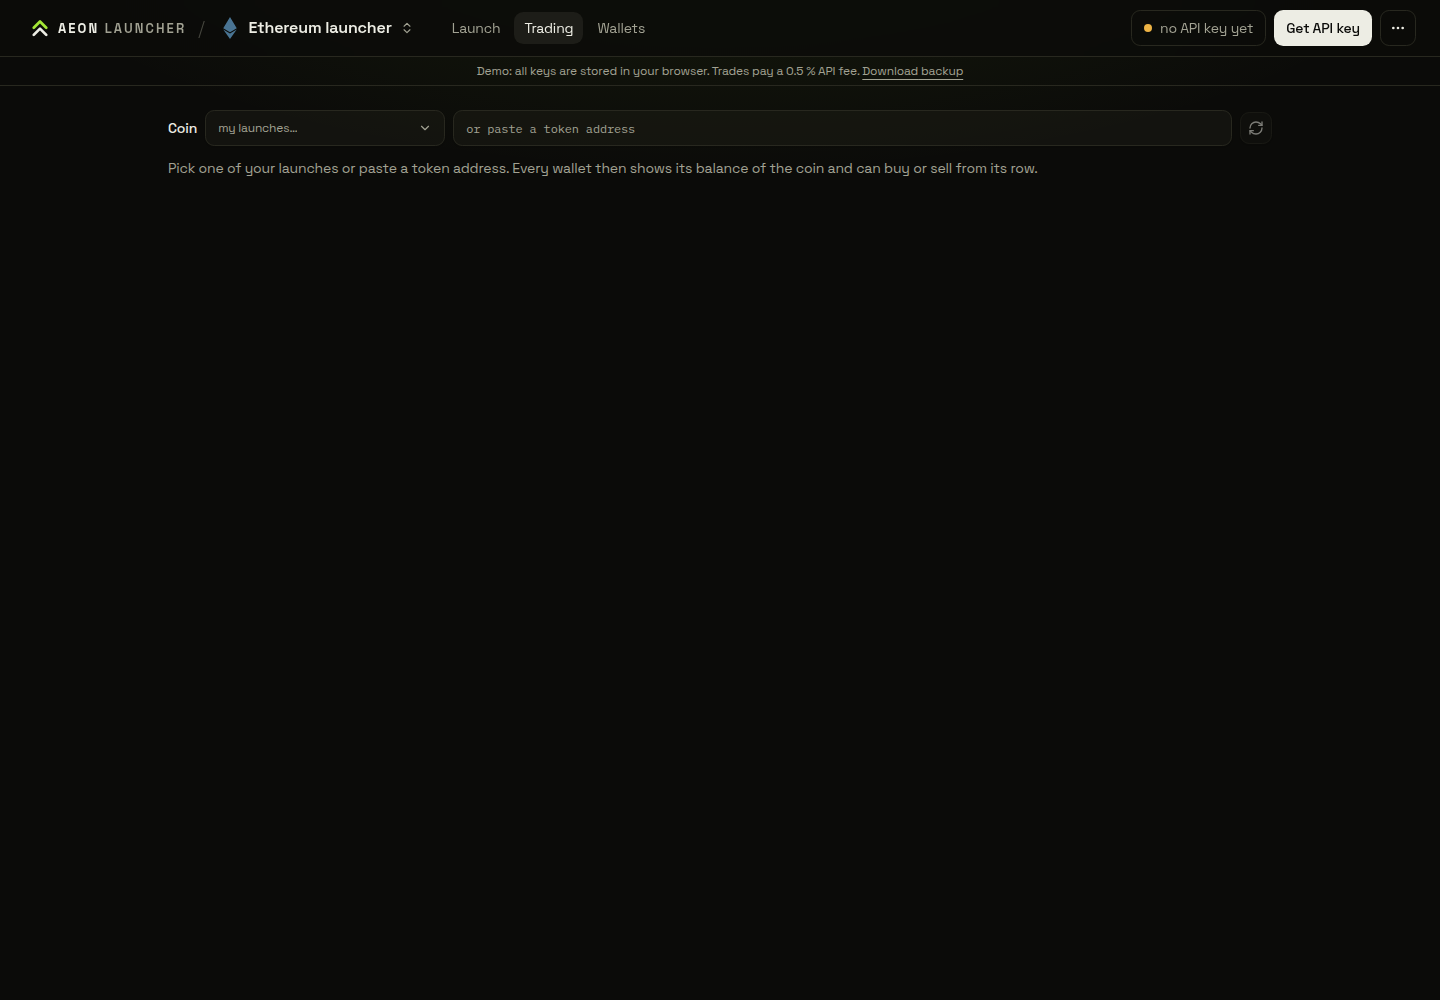
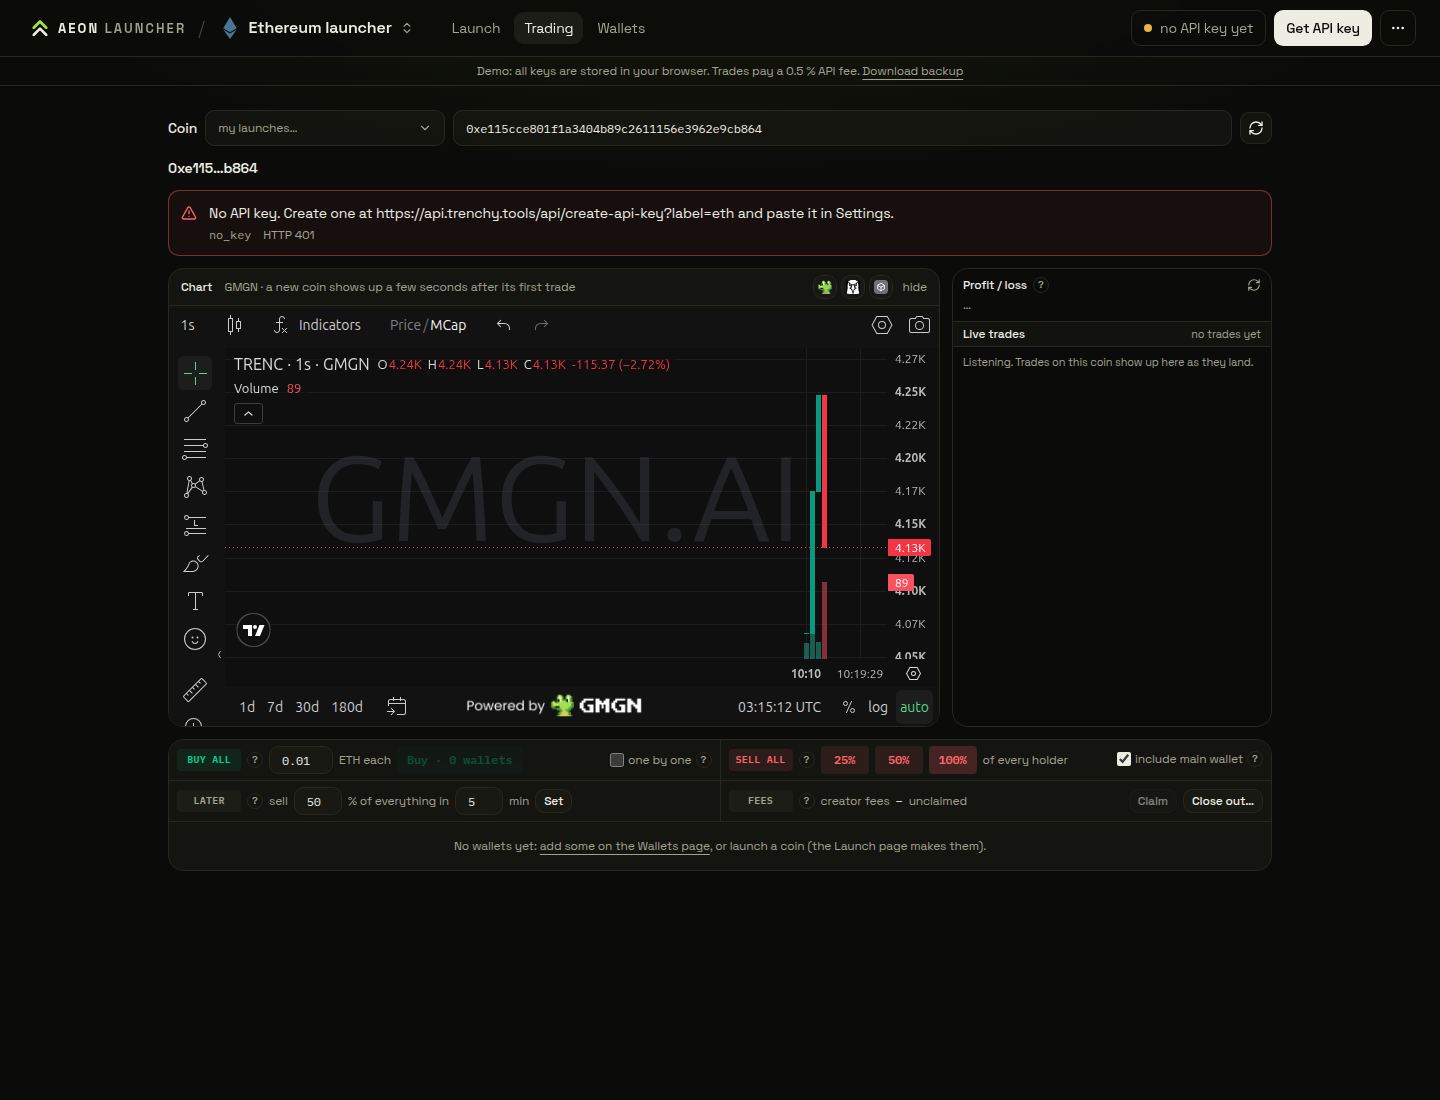
screenshots: wallets + trading

diff --git a/README.md b/README.md
@@ -70,6 +70,10 @@ Launch page:
 
 ![launch](.github/shot-launch.png)
 
+Wallets page:
+
+![wallets](.github/shot-wallets.png)
+
 Trading page:
 
 ![trading](.github/shot-trading.png)
